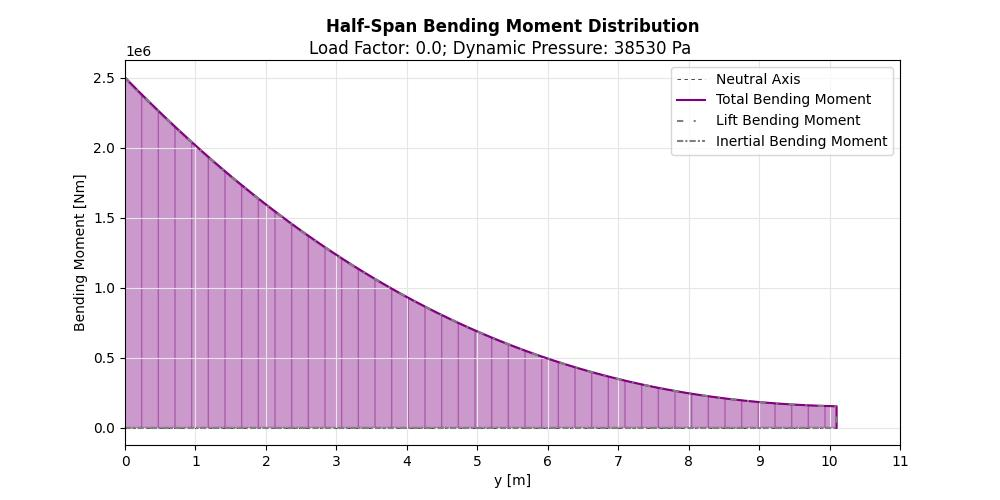
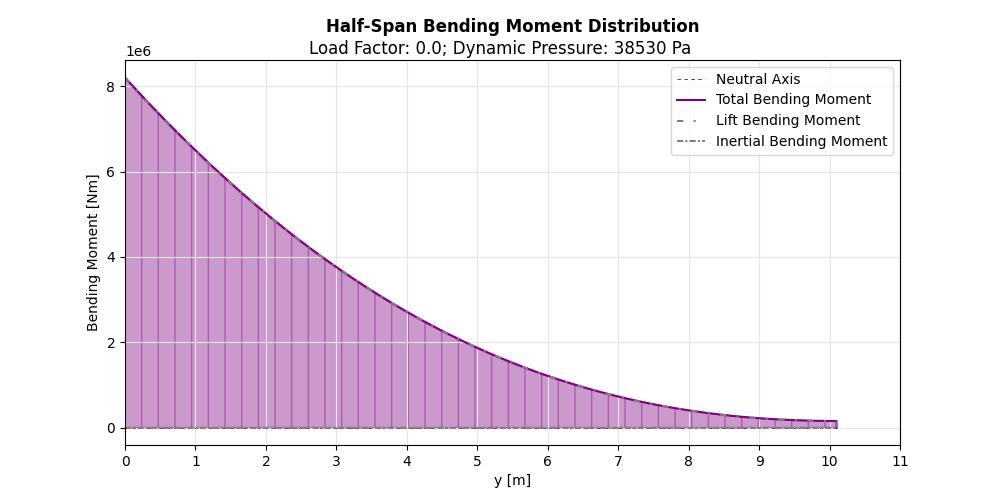
legit fix last minute epic

diff --git a/force_dists.py b/force_dists.py
@@ -12,44 +12,44 @@ from aerodynamic_dist import cl_dist, cd_dist, cm_dist, cl_winglet_dist, cd_wing
 
 # Force Distributions
 
-def force_span(dist, sample, q):  # Input distribution function, sample number, pressure
+def force_span(dist, sample, q, CL=CL_des):  # Input distribution function, sample number, pressure
     y = np.linspace(0, 10.1, sample)  # Linear discretization of continuous space
     chord_y = (ct - cr) / (b / 2) * (y) + 3.44  # Chord distribution
-    ddist = dist(y)  # Discretized coefficient distribution
+    ddist = dist(y, CL)  # Discretized coefficient distribution
     force_dist = ddist * q * chord_y  # Force distribution
     return force_dist
 
 
-def moment_span(dist, sample, q):  # Input distribution function, sample number, pressure - For moment, chord is squared
+def moment_span(dist, sample, q, CL=CL_des):  # Input distribution function, sample number, pressure - For moment, chord is squared
     y = np.linspace(0, 10.1, sample)  # Linear discretization of continuous space
     chord_y = (ct - cr) / (b / 2) * (y) + 3.44  # Chord Distribution
-    ddist = dist(y)  # Discretized coefficient distribution
+    ddist = dist(y, CL)  # Discretized coefficient distribution
     moment_dist = ddist * q * (chord_y) ** 2  # Moment distribution
     return moment_dist
 
 
 def normal_span(sample, q, CLd=CL_des):  # Input distribution function, sample number, pressure, Wing lift coefficient
     AoA = alpha(CLd)
-    normal_dist = np.cos(AoA) * force_span(cl_dist, sample, q) + np.sin(AoA) * force_span(cd_dist, sample, q)
+    normal_dist = np.cos(AoA) * force_span(cl_dist, sample, q, CLd) + np.sin(AoA) * force_span(cd_dist, sample, q, CLd)
     return normal_dist
 
 
-def force_winglet(dist, sample, q):  # Input distribution function, sample number, pressure
+def force_winglet(dist, sample, q, CLd=CL_des):  # Input distribution function, sample number, pressure
     y = np.linspace(0, wlt_span/2, sample)  # Linear discretization of continuous space
     chord_y = (wlt_ct - wlt_cr) / (wlt_span / 2) * (y) + wlt_cr  # Chord distribution
     # print(chord_y)
-    ddist = dist(y+b/2)  # Discretized coefficient distribution
+    ddist = dist(y+b/2, CLd)  # Discretized coefficient distribution
     # print(ddist)
     force_dist = ddist * q * chord_y  # Force distribution
     force = np.sum(force_dist) / sample
     return force
 
 
-def moment_winglet(sample, q):
+def moment_winglet(sample, q, CL=CL_des):
     y = np.linspace(0, wlt_span / 2, sample)  # Linear discretization of continuous space
     chord_y = (wlt_ct - wlt_cr) / (wlt_span / 2) * (y) + wlt_cr  # Chord distribution
     # print(chord_y)
-    ddist = cm_winglet_dist(y + b / 2)  # Discretized coefficient distribution
+    ddist = cm_winglet_dist(y + b / 2, CL_des)  # Discretized coefficient distribution
     # print(ddist)
     moment_dist = ddist * q * chord_y**2  # Moment distribution
     moment = np.sum(moment_dist) / sample
@@ -59,14 +59,14 @@ def moment_winglet(sample, q):
 
 def normal_winglet(sample, q, CLd=CL_des):
     AoA = alpha(CLd) * np.cos(np.radians(50))
-    normal = np.cos(AoA) * force_winglet(cl_winglet_dist, sample, q) + np.sin(AoA) * force_winglet(cd_winglet_dist, sample, q)
+    normal = np.cos(AoA) * force_winglet(cl_winglet_dist, sample, q, CLd) + np.sin(AoA) * force_winglet(cd_winglet_dist, sample, q, CLd)
     print("Hello :)")
     return normal
 
 
 def tangential_winglet(sample, q, CLd=CL_des):
     AoA = alpha(CLd) * np.cos(np.radians(50))
-    tang = np.sin(AoA) * force_winglet(cl_winglet_dist, sample, q) + np.cos(AoA) * force_winglet(cd_winglet_dist, sample, q)
+    tang = np.sin(AoA) * force_winglet(cl_winglet_dist, sample, q, CLd) + np.cos(AoA) * force_winglet(cd_winglet_dist, sample, q, CLd)
     return tang
 
 

diff --git a/main.py b/main.py
@@ -13,20 +13,20 @@ from aerodynamic_dist import * #Import interpolated continuous distributions fro
 
 sf=1.5 # Safety Factor
 nload=1.5*(0) # Load Factor
-
+CL = 2
 # Aerodynamic Loading
 
 y=np.linspace(0,10.1,sample)
-L_prime=force_span(cl_dist,sample,q)
-D_prime=force_span(cd_dist,sample,q)
-M_prime=moment_span(cm_dist,sample,q)
-N_prime=normal_span(sample, q, CL_des)
+L_prime=force_span(cl_dist,sample,q, CL) #* nload
+D_prime=force_span(cd_dist,sample,q, CL) #* nload
+M_prime=moment_span(cm_dist,sample,q, CL) #* nload
+N_prime=normal_span(sample, q, CL) #* nload
 
 # uniform= np.full(sample,4000)
 
 # plt.plot(np.linspace(0, 10.1, sample), L_prime)
 # plt.plot(np.linspace(0, 10.1, sample), D_prime)
-# plt.plot(np.linspace(0, 10.1, sample), N_prime)
+plt.plot(np.linspace(0, 10.1, sample), N_prime)
 # plt.plot(np.linspace(0, 10.1 ,sample), M_prime)
 
 # Inertial Loading
